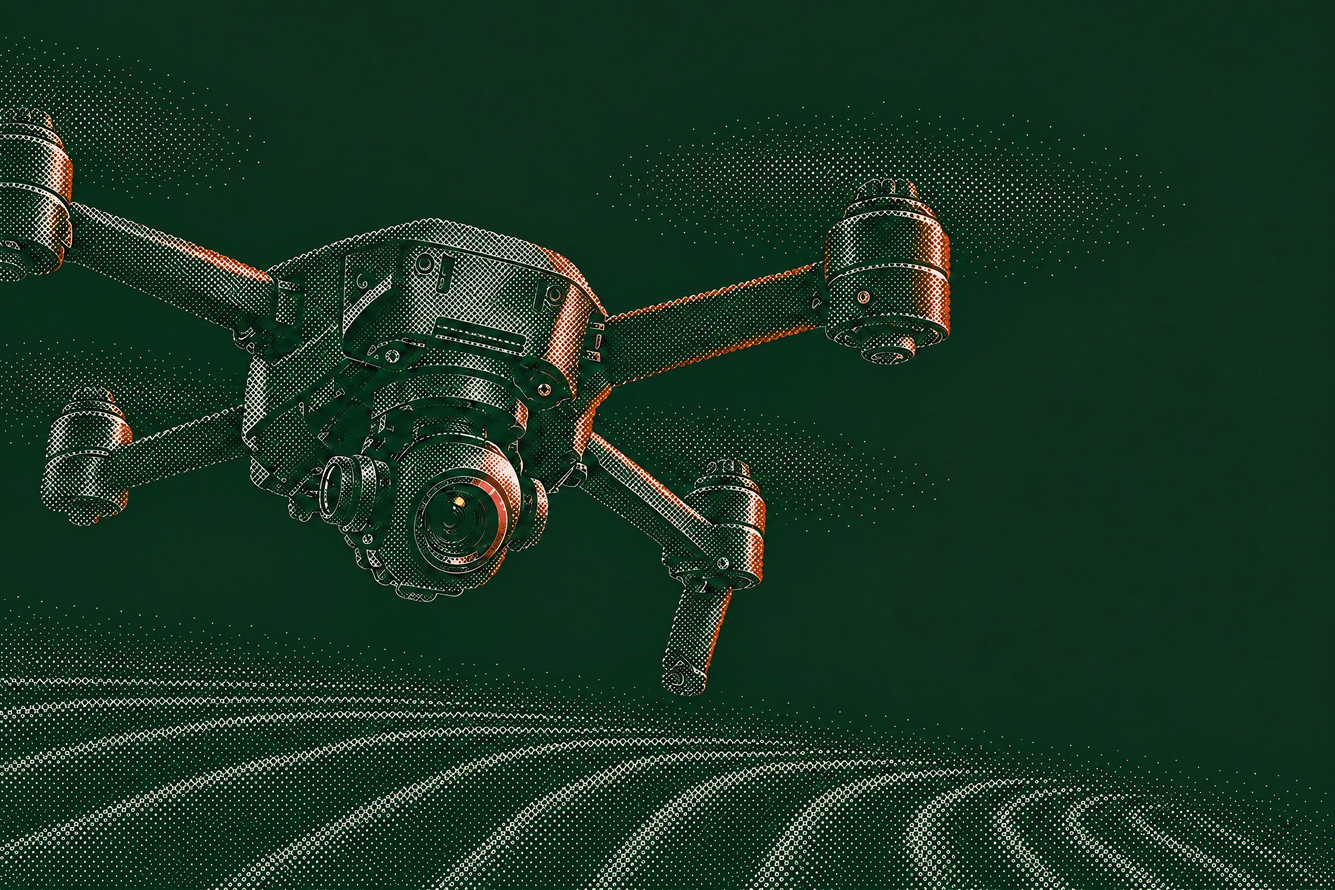
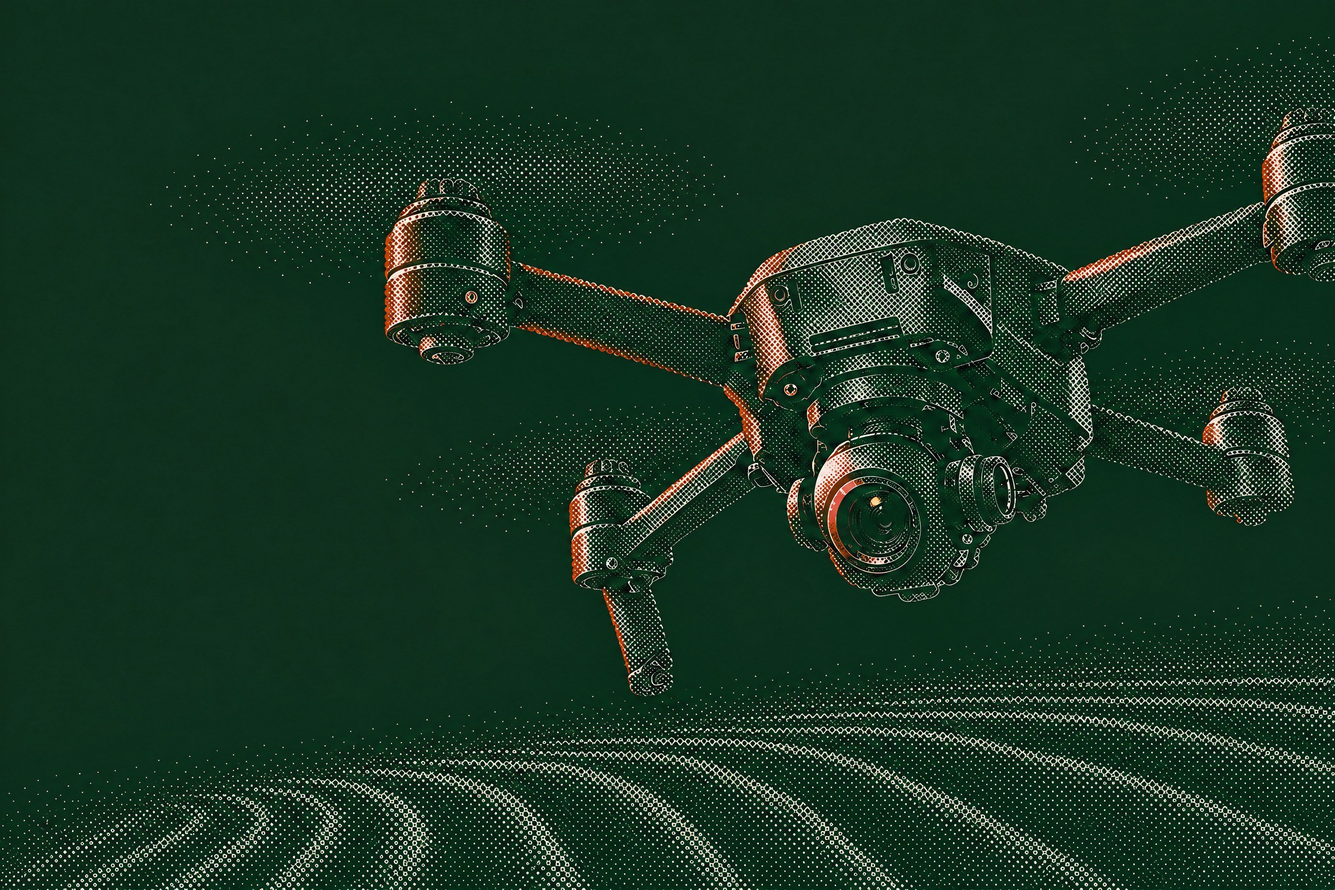
Home hero: drone flipped, hero 80% of the screen height

Changed region(s): [[0.0, 0.0938, 1.0, 1.0]]

diff --git a/index.html b/index.html
@@ -81,14 +81,14 @@ main [data-theme="linen"] .alink.auto::after{background:var(--green)}
 body::before{content:"";position:fixed;inset:0 0 auto;height:env(safe-area-inset-top,0px);z-index:30;background:var(--green)}
 
 /* 1. hero */
-.hero{position:relative;margin-top:-96px;padding-top:96px;min-height:820px;display:flex;align-items:center;overflow:hidden}
-.hero__art{position:absolute;top:0;right:0;width:64%;height:100%;object-fit:cover;object-position:0% 50%;-webkit-mask-image:linear-gradient(90deg,transparent 0%,#000 34%);mask-image:linear-gradient(90deg,transparent 0%,#000 34%)}
+.hero{position:relative;margin-top:-96px;padding-top:96px;min-height:80vh;min-height:80svh;display:flex;align-items:center;overflow:hidden}
+.hero__art{position:absolute;top:0;right:0;width:64%;height:100%;object-fit:cover;object-position:100% 50%;-webkit-mask-image:linear-gradient(90deg,transparent 0%,#000 34%);mask-image:linear-gradient(90deg,transparent 0%,#000 34%)}
 .hero .wrap{position:relative;width:100%}
-.hero__body{max-width:740px;padding-block:96px 72px;display:flex;flex-direction:column;gap:28px}
+.hero__body{max-width:740px;padding-block:clamp(24px,7vh,96px) clamp(20px,5vh,72px);display:flex;flex-direction:column;gap:28px}
 .hero .lead{font-size:18px}
 .hero h1{font:400 58px/1.04 var(--serif);letter-spacing:-.015em;text-wrap:balance}
 .hero .row{display:flex;gap:14px;flex-wrap:wrap;margin-top:12px}
-.disclose{font-size:13.5px;line-height:1.5;color:var(--sand);padding-bottom:36px}
+.disclose{font-size:13.5px;line-height:1.5;color:var(--sand);padding-bottom:clamp(20px,4vh,36px)}
 
 /* 2. fact band on the interactive soft-forms halftone */
 .band{position:relative;height:320px}
